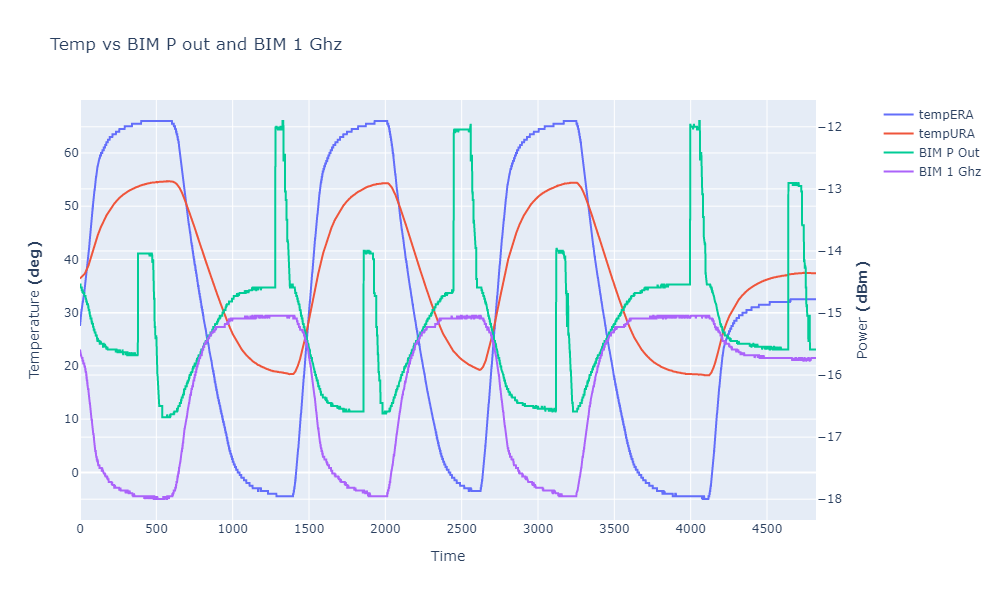
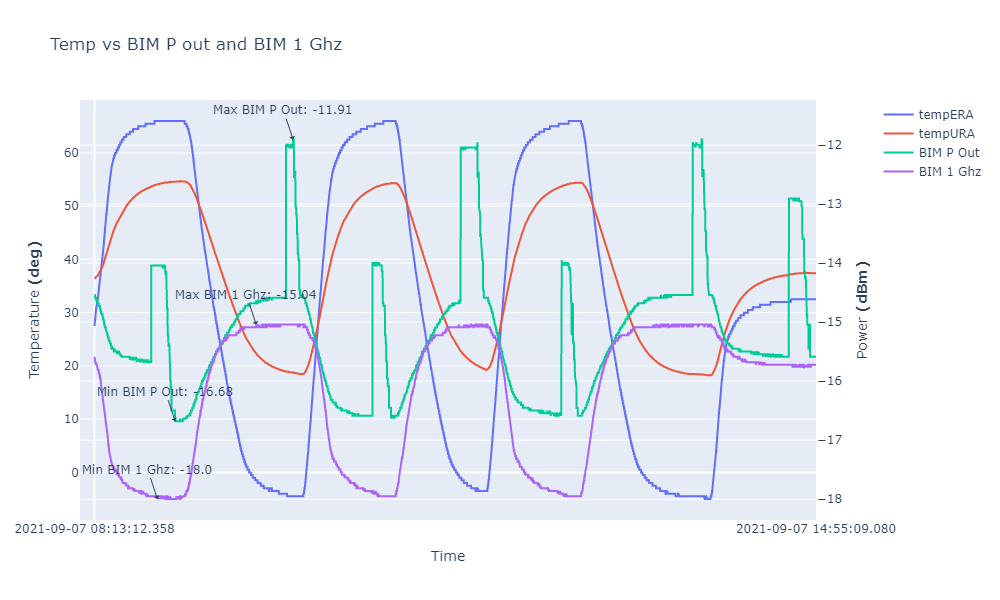
-added annotations

diff --git a/Graph from CSV/BIM_to_PDF_Script/plot_BIM_graphs.py b/Graph from CSV/BIM_to_PDF_Script/plot_BIM_graphs.py
@@ -22,6 +22,13 @@ def generate_Plots(plotData):
             if exc.errno != errno.EEXIST:
                 raise
     primaryPlot = plotData
+
+    right_axis_title = plotData["right_axis_title"]
+    right_axis_unit = plotData["right_axis_unit"]
+    # print(len(plotData["time"]))
+    # print(plotData["time"][0])
+    # print(plotData["time"][len(plotData["time"]) - 1])
+    
     # primaryPlot = {
     #     "x_values": [0,1,2,3,4,5],
     #     "y1_values": [0,1,2,3,4,5],
@@ -59,19 +66,80 @@ def generate_Plots(plotData):
     fig.update_layout(
         title_text=plotData["plotName"]
     )
+    # # Add annotation for Maximum value
+    # y1_max_value = max(plotData["y1_values"])
+    # y1_max_index = plotData["y1_values"].index(y1_max_value)
+    # # max_string = f"Max: {y1_max_value}"
+    # y1_min_value = min(plotData["y1_values"])
+    # y1_min_index = plotData["y1_values"].index(y1_min_value)
+
+    # print(y1_max_value)
+    # print(y1_max_index)
+    # ## Max Annotation
+    # fig.add_annotation(x=y1_max_index, y=y1_max_value,
+    #         xref="x",
+    #         yref="y2",
+    #         text=f"Max : {round(y1_max_value,2)}",
+    #         showarrow=True,
+    #         arrowhead=1)
+    # ## Min annotation
+    # fig.add_annotation(x=y1_min_index, y=y1_min_value,
+    #         xref="x",
+    #         yref="y2",
+    #         text=f"Min : {round(y1_min_value,2)}",
+    #         showarrow=True,
+    #         arrowhead=1)
+
+    #Add annotations
+    addAnnotations(fig, plotData["y1_values"], plotData["y1_name"])
+    addAnnotations(fig, plotData["y2_values"], plotData["y2_name"])
 
     # Set x-axis title
     fig.update_xaxes(title_text="Time")
 
     # Set y-axes titles
     fig.update_yaxes(title_text="Temperature <b>(deg)</b>", secondary_y=False)
-    fig.update_yaxes(title_text="Power <b>(dBm)</b>", secondary_y=True)
+    fig.update_yaxes(title_text=f"{right_axis_title} <b>{right_axis_unit}</b>", secondary_y=True)
 
+    #Update x-ticks
+    fig.update_layout(
+        xaxis = dict(
+            tickmode = 'array',
+            tickvals = [0, len(plotData["time"]) - 1],
+            ticktext = [plotData["time"][0], plotData["time"][len(plotData["time"]) - 1] ]
+        )
+)
     # fig.show()
 
     #export
     pio.write_image(fig, fullSavePath, width=1000, height=600)
     # fig.write_image("images/multiple_figures_bim.png")
     print(plotName + " Generated")
+
+def addAnnotations(fig, values, name):
+    max_value = max(values)
+    max_index = values.index(max_value)
+    # max_string = f"Max: {y1_max_value}"
+    min_value = min(values)
+    min_index = values.index(min_value)
+
+    print(name)
+    print(max_value)
+    print(max_index)
+    
+    ## Max Annotation
+    fig.add_annotation(x=max_index, y=max_value,
+            xref="x",
+            yref="y2",
+            text=f"Max {name}: {round(max_value,2)}",
+            showarrow=True,
+            arrowhead=1)
+    ## Min annotation
+    fig.add_annotation(x=min_index, y=min_value,
+            xref="x",
+            yref="y2",
+            text=f"Min {name}: {round(min_value,2)}",
+            showarrow=True,
+            arrowhead=1)
 
 # generate_Plots()

diff --git a/Graph from CSV/BIM_to_PDF_Script/exctract_BIM_data.py b/Graph from CSV/BIM_to_PDF_Script/exctract_BIM_data.py
@@ -44,44 +44,60 @@ tx_out = list(map(lambda x: convertValues((-24.8614817), (x/1000), 58.5), tx_out
 bim_i = list(map(lambda num: (num/1000),bim_i_raw))
 bim_q = list(map(lambda num: (num/1000),bim_q_raw))
 
+#getting maximum and minimum
+# max_ERA_Temp = max(tempERA)
+# max_ERA_index = tempERA.index(max_ERA_Temp)
+# print(max_ERA_Temp)
+# print(max_ERA_index)
 
-# print(x_strings[0])
-# print(tempERA[0])
+
+# print(xdict[0])
+# print(max(tempERA))
 # print(tempURA[0])
 # print(bim_P_Out[0])
 # print(bim_P_Out_func[0])
 # print(tx_in[0])
 
 #Plot Data
+
 era = {
-    "plotName": "Temp vs BIM P out and BIM 1 Ghz",
+    "plotName": "Temp vs BIM P out & BIM 1 Ghz",
     "x_values": x_values,
+    "time": xdict,
     "era_temps": tempERA,
     "ura_temps": tempURA,
     "y1_values": bim_P_Out,
     "y1_name": "BIM P Out",
     "y2_values": bim_1_G,
-    "y2_name": "BIM 1 Ghz"
+    "y2_name": "BIM 1 Ghz",
+    "right_axis_title": "Power",
+    "right_axis_unit": "(dBm)"
 }
 tx_bims = {
     "plotName": "Temp vs TX_In & TX_Out",
     "x_values": x_values,
+    "time": xdict,
     "era_temps": tempERA,
     "ura_temps": tempURA,
     "y1_values": tx_in,
     "y1_name": "TX_IN",
     "y2_values": tx_out,
-    "y2_name": "TX_OUT"
+    "y2_name": "TX_OUT",
+    "right_axis_title": "Power",
+    "right_axis_unit": "(dBm)"
 }
 iq_bims = {
     "plotName": "Temp vs IQ BIMS",
     "x_values": x_values,
+    "time": xdict,
     "era_temps": tempERA,
     "ura_temps": tempURA,
     "y1_values": bim_i,
     "y1_name": "BIM I",
     "y2_values": bim_q,
-    "y2_name": "BIM Q"
+    "y2_name": "BIM Q",
+    "right_axis_title": "Voltage",
+    "right_axis_unit": "(V)"
 }
 #Call the plotting function
 generate_Plots(era)
